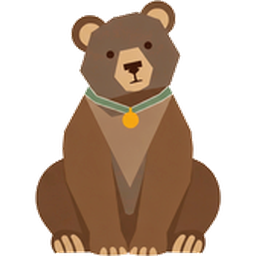
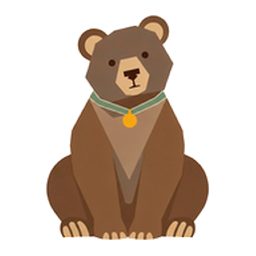
Shop: re-cut pet and egg art so nothing is missing or clipped
Background removal only clears white connected to the edge, so light
parts inside an animal stay. Every image is trimmed and padded on a
256px canvas. Image URLs get ?v=2 so browsers fetch the new files.

Changed region(s): [[0.125, 0.0, 0.875, 1.0], [0.6875, 0.6875, 0.7188, 0.75], [0.2812, 0.6875, 0.3125, 0.75]]

diff --git a/revision/shop-data.js b/revision/shop-data.js
@@ -52,7 +52,7 @@ const SHOP = (() => {
     ['lion', 'Lion', 'legendary'], ['griffin', 'Griffin', 'legendary'], ['unicorn', 'Unicorn', 'legendary'], ['dragon', 'Dragon', 'legendary'],
     ['phoenix', 'Phoenix', 'mythic'], ['kraken', 'Kraken', 'mythic'], ['hydra', 'Hydra', 'mythic']
   ];
-  const PETS = PET_LIST.map(([id, name, rarity]) => ({ id, name, rarity, img: `img/pets/${id}.png` }));
+  const PETS = PET_LIST.map(([id, name, rarity]) => ({ id, name, rarity, img: `img/pets/${id}.png?v=2` }));
 
   /* Old code-drawn pets with no animal in the new set, mapped to a new pet
      (cheap starters -> common, tech -> rare, yeti/slime -> epic). Every other
@@ -114,7 +114,7 @@ const SHOP = (() => {
     const o = opts || {};
     const e = egg(id) || EGGS[0];
     const wh = o.size ? ` width="${o.size}" height="${o.size}"` : '';
-    return `<img src="img/eggs/egg-${e.id}.png"${wh} class="egg-img${o.cls ? ' ' + esc(o.cls) : ''}" alt="" aria-hidden="true" draggable="false" decoding="async">`;
+    return `<img src="img/eggs/egg-${e.id}.png?v=2"${wh} class="egg-img${o.cls ? ' ' + esc(o.cls) : ''}" alt="" aria-hidden="true" draggable="false" decoding="async">`;
   }
 
   /* ---------- mascot lines ----------

diff --git a/revision/tests/eggs.test.js b/revision/tests/eggs.test.js
@@ -13,7 +13,7 @@ test('pets: 20 image pets in five rarities, each drawn from img/pets/<id>.png', 
   assert.deepEqual(by('epic'), ['wolf', 'tiger', 'bear', 'eagle']);
   assert.deepEqual(by('legendary'), ['lion', 'griffin', 'unicorn', 'dragon']);
   assert.deepEqual(by('mythic'), ['phoenix', 'kraken', 'hydra']);
-  for (const p of SHOP.PETS) assert.equal(p.img, `img/pets/${p.id}.png`);
+  for (const p of SHOP.PETS) assert.equal(p.img, `img/pets/${p.id}.png?v=2`);
   for (const e of SHOP.EGGS) assert.match(SHOP.eggHTML(e.id), new RegExp(`img/eggs/egg-${e.id}\.png`));
 });
 

diff --git a/revision/index.html b/revision/index.html
@@ -164,7 +164,7 @@
 <script src="league.js?v=3"></script>
 <script src="memory.js?v=3"></script>
 <script src="coins.js?v=3"></script>
-<script src="shop-data.js?v=4"></script>
+<script src="shop-data.js?v=5"></script>
 <script src="app.js?v=45"></script>
 <script src="shop.js?v=3"></script>
 <script src="round.js?v=8"></script>

diff --git a/tools/cutout_pets.py b/tools/cutout_pets.py
@@ -1,0 +1,111 @@
+"""Re-cut the Canva pet and egg art from the white-background originals.
+
+Only white that is connected to the image border is treated as background
+(flood fill), so white/light areas inside an animal are kept. The result is
+trimmed, centred on a square canvas with padding, and saved at 256x256.
+
+Usage: python tools/cutout_pets.py [--tol 18] [--check sheet.png]
+"""
+import argparse
+from collections import deque
+from pathlib import Path
+
+from PIL import Image
+
+ROOT = Path(__file__).resolve().parent.parent
+SDD = ROOT / ".superpowers/sdd/2026-11-18-gizmo-rehaul"
+PETS = ["bear", "cat", "dog", "dragon", "eagle", "fox", "frog", "griffin", "hamster",
+        "lion", "owl", "panda", "penguin", "phoenix", "rabbit", "tiger", "unicorn", "wolf"]
+SOURCES = {f"pets/{p}.png": SDD / "pets-vibrant" / f"{p}.png" for p in PETS}
+SOURCES.update({f"pets/{p}.png": SDD / "raw2" / f"{p}.png" for p in ("hydra", "kraken")})
+SOURCES.update({f"eggs/egg-{r}.png": SDD / "raw2" / f"egg-{r}.png"
+                for r in ("common", "rare", "epic", "legendary")})
+OUT = ROOT / "revision/img"
+SIZE, PAD = 256, 0.06  # padding as a share of the canvas on each side
+SCALE = 4  # upscale before cutting so the edge stays smooth
+
+
+def cut(src, tol):
+    small = Image.open(src).convert("RGB")
+    # find the background on the original pixels (no resampling noise)
+    sw, sh = small.size
+    sp = small.load()
+    from collections import Counter
+    border = [sp[x, y] for x in range(sw) for y in (0, sh - 1)] +              [sp[x, y] for y in range(sh) for x in (0, sw - 1)]
+    ref = Counter(border).most_common(1)[0][0]
+    sbg = [[False] * sw for _ in range(sh)]
+    q = deque()
+    for x in range(sw):
+        q.extend(((x, 0), (x, sh - 1)))
+    for y in range(sh):
+        q.extend(((0, y), (sw - 1, y)))
+    while q:
+        x, y = q.popleft()
+        if sbg[y][x] or max(abs(a - b) for a, b in zip(sp[x, y], ref)) > tol:
+            continue
+        sbg[y][x] = True
+        if x > 0: q.append((x - 1, y))
+        if x < sw - 1: q.append((x + 1, y))
+        if y > 0: q.append((x, y - 1))
+        if y < sh - 1: q.append((x, y + 1))
+    im = small.resize((sw * SCALE, sh * SCALE), Image.LANCZOS)
+    w, h = im.size
+    px = im.load()
+    dist = [[255 - min(px[x, y]) for x in range(w)] for y in range(h)]
+    bg = [[sbg[y // SCALE][x // SCALE] for x in range(w)] for y in range(h)]
+    out = Image.new("RGBA", (w, h))
+    op = out.load()
+    edge = 60  # anti-aliased fringe next to the background
+    for y in range(h):
+        for x in range(w):
+            r, g, b = px[x, y]
+            if bg[y][x]:
+                op[x, y] = (r, g, b, 0)
+                continue
+            near_bg = any(0 <= x + dx < w and 0 <= y + dy < h and bg[y + dy][x + dx]
+                          for dx, dy in ((1, 0), (-1, 0), (0, 1), (0, -1)))
+            d = dist[y][x]
+            if near_bg and d < edge:
+                a = max(d / edge, 0.05)
+                # remove the white the edge pixel was blended with
+                r, g, b = (max(0, min(255, round((c - (1 - a) * 255) / a))) for c in (r, g, b))
+                op[x, y] = (r, g, b, round(a * 255))
+            else:
+                op[x, y] = (r, g, b, 255)
+    box = out.split()[-1].point(lambda v: 255 if v > 8 else 0).getbbox()
+    art = out.crop(box)
+    inner = round(SIZE * (1 - 2 * PAD))
+    k = inner / max(art.size)
+    art = art.resize((max(1, round(art.width * k)), max(1, round(art.height * k))), Image.LANCZOS)
+    canvas = Image.new("RGBA", (SIZE, SIZE), (0, 0, 0, 0))
+    canvas.alpha_composite(art, ((SIZE - art.width) // 2, (SIZE - art.height) // 2))
+    return canvas
+
+
+def main():
+    ap = argparse.ArgumentParser()
+    ap.add_argument("--tol", type=int, default=3)
+    ap.add_argument("--check")
+    ap.add_argument("--dry", action="store_true")
+    a = ap.parse_args()
+    results = {}
+    for dest, src in SOURCES.items():
+        results[dest] = cut(src, a.tol)
+        if not a.dry:
+            results[dest].save(OUT / dest, optimize=True)
+        print("ok", dest)
+    if a.check:
+        cols = 8
+        rows = -(-len(results) // cols)
+        sheet = Image.new("RGBA", (cols * 264, rows * 264 * 2), (26, 35, 58, 255))
+        for i, im in enumerate(results.values()):
+            x, y = (i % cols) * 264 + 4, (i // cols) * 264 * 2 + 4
+            sheet.alpha_composite(im, (x, y))
+            pink = Image.new("RGBA", (256, 256), (255, 0, 200, 255))
+            pink.alpha_composite(im)
+            sheet.alpha_composite(pink, (x, y + 264))
+        sheet.convert("RGB").save(a.check)
+
+
+if __name__ == "__main__":
+    main()
